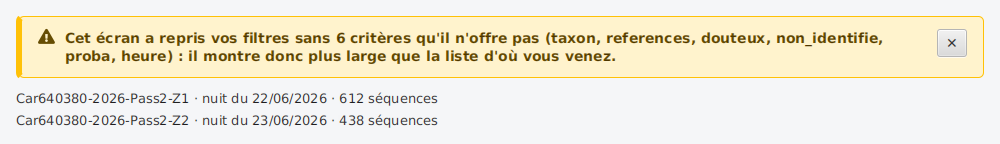
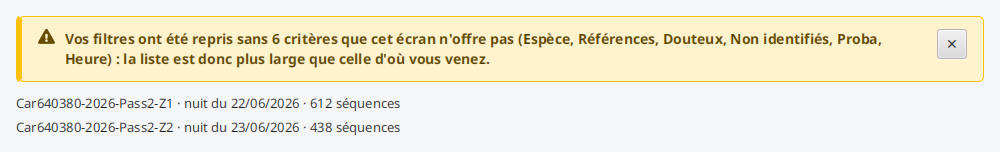
fix(commun): nommer les criteres en francais dans les comptes rendus
Trouve en OUVRANT les captures de la passe 8, pas en lisant un test. Le bandeau
affichait les cles brutes au milieu d une phrase francaise : references sans
accent, non_identifie avec son tiret bas. Ca se lit comme une faute de frappe.

L assertion qui existait, contains(proba), passait sans rien voir : proba est
lisible par hasard.

LibellesCriteres est separe de ClesCriteres a dessein. Le second est un contrat,
les cles partagees et leur concept ; le premier une affaire de presentation, qui
doit couvrir toutes les cles, y compris celles propres a un ecran.

Second defaut : qu il n offre pas n avait d antecedent que dans un des deux
messages. Et corriger cela en a cree un troisieme, vu en regenerant la capture :
cet ecran apparaissait deux fois dans la meme phrase. L ouverture est reformulee.

Deux tests figeaient la formulation defectueuse ; ils assertent desormais le
libelle et refusent la cle brute.

Refs #3092

diff --git a/src/test/java/fr/univ_amu/iut/commun/viewmodel/RetourOperationTest.java b/src/test/java/fr/univ_amu/iut/commun/viewmodel/RetourOperationTest.java
@@ -133,11 +133,11 @@ class RetourOperationTest {
     @DisplayName("#3093 : un critère absent du catalogue se dit, au singulier comme au pluriel")
     void critere_inconnu_se_dit() {
         assertThat(RetourOperation.vueAmputee("V", criteresInconnus("proba")).texte())
-                .contains("le critère « proba », qu'il n'offre pas");
+                .contains("le critère « Proba », que cet écran n'offre pas");
 
         assertThat(RetourOperation.vueAmputee("V", criteresInconnus("proba", "heure"))
                         .texte())
-                .contains("2 critères qu'il n'offre pas (proba, heure)");
+                .contains("2 critères que cet écran n'offre pas (Proba, Heure)");
     }
 
     @Test
@@ -150,7 +150,7 @@ class RetourOperationTest {
 
         assertThat(retour.texte())
                 .contains("« 640380 · Z1 », qui n'existe plus")
-                .contains("2 critères qu'il n'offre pas (proba, heure)");
+                .contains("2 critères que cet écran n'offre pas (Proba, Heure)");
     }
 
     @Test
@@ -159,12 +159,44 @@ class RetourOperationTest {
         // Ni l'un ni l'autre n'est une vue nommée : les faire parler de « la vue » demanderait un nom
         // qu'ils n'ont pas.
         assertThat(RetourOperation.filtresNonRepris(criteresInconnus("proba")).texte())
-                .contains("plus large que la liste d'où vous venez")
+                .contains("plus large que celle d'où vous venez")
                 .doesNotContain("La vue");
 
         assertThat(RetourOperation.filtresDeSessionAmputes(valeursPerdues("Z1")).texte())
                 .contains("plus large que la dernière fois")
                 .doesNotContain("La vue");
+    }
+
+    @Test
+    @DisplayName("Revue visuelle : un critère se nomme en français, pas par sa clé technique")
+    void un_critere_absent_se_nomme_en_francais() {
+        // Trouvé en OUVRANT la capture, pas en lisant un test : le bandeau affichait « sans 6 critères
+        // qu'il n'offre pas (taxon, references, douteux, non_identifie, proba, heure) ». Le tiret bas et
+        // les accents manquants se lisent comme une faute de frappe au milieu d'une phrase française.
+        //
+        // L'assertion qui existait - `contains("proba")` - passait, parce que « proba » est lisible par
+        // hasard. C'est « non_identifie » qui trahit la fuite technique.
+        RetourOperation retour = RetourOperation.vueAmputee("V", criteresInconnus("non_identifie", "references"));
+
+        assertThat(retour.texte())
+                .contains("Non identifiés", "Références")
+                .doesNotContain("non_identifie", "references");
+    }
+
+    @Test
+    @DisplayName("Revue visuelle : « qu'il n'offre pas » n'a pas d'antécédent quand le sujet est la vue")
+    void la_phrase_de_vue_amputee_n_a_pas_de_pronom_orphelin() {
+        // « La vue « X » a été rejouée sans …, ni 2 critères QU'IL n'offre pas » : le sujet est « La
+        // vue », donc « il » ne renvoie à rien. Le fragment avait été écrit pour l'autre message
+        // (« Cet écran … qu'il n'offre pas »), où le pronom a bien un antécédent.
+        assertThat(RetourOperation.vueAmputee("V", criteresInconnus("proba")).texte())
+                .as("le fragment doit nommer ce qui n'offre pas le critère, sans pronom ambigu")
+                .contains("que cet écran n'offre pas")
+                .doesNotContain("qu'il n'offre pas");
+
+        assertThat(RetourOperation.filtresNonRepris(criteresInconnus("proba")).texte())
+                .as("et il reste juste dans le message où le sujet EST l'écran")
+                .contains("que cet écran n'offre pas");
     }
 
     private static ResteDeRestauration valeursPerdues(String... valeurs) {

diff --git a/src/main/java/fr/univ_amu/iut/commun/viewmodel/RetourOperation.java b/src/main/java/fr/univ_amu/iut/commun/viewmodel/RetourOperation.java
@@ -1,6 +1,7 @@
 package fr.univ_amu.iut.commun.viewmodel;
 
 import fr.univ_amu.iut.commun.model.Severite;
+import fr.univ_amu.iut.commun.view.LibellesCriteres;
 import java.util.ArrayList;
 import java.util.List;
 
@@ -100,9 +101,12 @@ public record RetourOperation(String texte, Severite severite) {
     /// **d'où** vient l'écart. Le cas est ordinaire et non exceptionnel : Sons & validation offre dix
     /// critères, l'analyse cinq, donc resserrer sur la probabilité puis basculer sur la carte élargit
     /// forcément le résultat.
+    /// ⚠ L'ouverture ne dit **pas** « Cet écran a repris vos filtres » : le fragment des critères
+    /// nomme déjà l'écran, et la phrase le répétait deux fois. Vu en régénérant la capture, pas en
+    /// relisant le code.
     public static RetourOperation filtresNonRepris(ResteDeRestauration reste) {
-        return avertissement("Cet écran a repris vos filtres sans " + laisseDeCote(reste)
-                + " : il montre donc plus large que la liste d'où vous venez.");
+        return avertissement("Vos filtres ont été repris sans " + laisseDeCote(reste)
+                + " : la liste est donc plus large que celle d'où vous venez.");
     }
 
     /// Le **choix d'une puce remplacé** parce qu'il a disparu du jeu courant (#3095).
@@ -149,10 +153,21 @@ public record RetourOperation(String texte, Severite severite) {
 
     /// Les critères que cet écran n'offre pas, **accordés**. Nommés par leur **clé** : l'écran ne connaît
     /// pas ces critères, donc n'a pas leur intitulé (cf. [ResteDeRestauration]).
+    /// Les critères que cet écran n'offre pas, **nommés comme leur puce les nomme**.
+    ///
+    /// Deux corrections issues de la revue visuelle du chantier #3092, trouvées en ouvrant la capture :
+    ///
+    /// - les clés sortaient **telles quelles** (« references », « non_identifie »), tiret bas et
+    ///   accents manquants compris, ce qui se lit comme une faute de frappe au milieu d'une phrase
+    ///   française. Elles passent par [LibellesCriteres] ;
+    /// - « qu'**il** n'offre pas » n'avait d'antécédent que dans un des deux messages. Dans
+    ///   [#vueAmputee], le sujet est « La vue », et le pronom ne renvoyait à rien. La formule nomme
+    ///   donc l'écran, ce qui reste juste dans les deux.
     private static String criteresAbsents(List<String> criteres) {
-        return criteres.size() == 1
-                ? "le critère « " + criteres.get(0) + " », qu'il n'offre pas"
-                : criteres.size() + " critères qu'il n'offre pas (" + String.join(", ", criteres) + ")";
+        List<String> nommes = criteres.stream().map(LibellesCriteres::de).toList();
+        return nommes.size() == 1
+                ? "le critère « " + nommes.get(0) + " », que cet écran n'offre pas"
+                : nommes.size() + " critères que cet écran n'offre pas (" + String.join(", ", nommes) + ")";
     }
 
     public static RetourOperation erreur(Throwable refus) {

diff --git a/src/main/java/fr/univ_amu/iut/commun/view/LibellesCriteres.java b/src/main/java/fr/univ_amu/iut/commun/view/LibellesCriteres.java
@@ -1,0 +1,59 @@
+package fr.univ_amu.iut.commun.view;
+
+import java.util.Map;
+
+/// Comment un critère se **nomme à l'écran**, à partir de sa clé.
+///
+/// ## Pourquoi cette classe existe
+///
+/// Trouvé en **ouvrant une capture** pendant la revue visuelle du chantier #3092, pas en lisant un
+/// test. Le bandeau d'un écran qui n'a pas su reprendre des filtres affichait :
+///
+/// > sans 6 critères qu'il n'offre pas (taxon, **references**, douteux, **non_identifie**, proba,
+/// > heure)
+///
+/// Les clés sortaient telles quelles au milieu d'une phrase française : tiret bas, accents manquants.
+/// Ça se lit comme une faute de frappe ou une fuite technique. L'assertion qui existait,
+/// `contains("proba")`, passait sans rien voir - « proba » est lisible **par hasard**.
+///
+/// ## Pourquoi ce n'est pas dans `ClesCriteres`
+///
+/// [ClesCriteres] est un **contrat** : les clés partagées entre écrans, et le concept de chacune. Une
+/// clé propre à un seul écran n'y a pas sa place, son unicité ne posant aucune question.
+///
+/// Ici c'est une affaire de **présentation**, et elle doit couvrir **toutes** les clés, partagées ou
+/// non : l'écran qui rend compte d'un critère qu'il n'offre pas nomme précisément celles qu'il ne
+/// connaît pas. Les deux préoccupations sont distinctes, donc séparées.
+///
+/// Une clé sans libellé enregistré se rend **telle quelle** : c'est moins bon, mais lisible, et cela
+/// vaut mieux qu'une exception dans un message d'avertissement.
+public final class LibellesCriteres {
+
+    /// Le libellé de chaque critère de l'application, tel que sa puce l'affiche.
+    private static final Map<String, String> LIBELLES = Map.ofEntries(
+            Map.entry(ClesCriteres.STATUT_OBSERVATION, "Statut"),
+            Map.entry(ClesCriteres.STATUT_WORKFLOW, "Statut"),
+            Map.entry(ClesCriteres.GROUPE, "Taxon parent"),
+            Map.entry(ClesCriteres.LIEU, "Lieu"),
+            Map.entry(ClesCriteres.TAXON, "Espèce"),
+            Map.entry(ClesCriteres.A_ENJEU, "Espèces à enjeu"),
+            Map.entry("references", "Références"),
+            Map.entry("douteux", "Douteux"),
+            Map.entry("non_identifie", "Non identifiés"),
+            Map.entry("proba", "Proba"),
+            Map.entry("heure", "Heure"),
+            Map.entry("carre", "Carré"),
+            Map.entry("campagne", "Campagne"),
+            Map.entry("annee", "Année"),
+            Map.entry("verdict", "Verdict"),
+            Map.entry("analyse", "Analyse"),
+            Map.entry("nuit", "Nuit"),
+            Map.entry("natureNuit", "Nature de la nuit"));
+
+    private LibellesCriteres() {}
+
+    /// Le libellé de `cle`, ou la clé elle-même si elle n'est pas enregistrée.
+    public static String de(String cle) {
+        return LIBELLES.getOrDefault(cle, cle);
+    }
+}

diff --git a/src/test/java/fr/univ_amu/iut/analyse/view/AnalyseViewTest.java b/src/test/java/fr/univ_amu/iut/analyse/view/AnalyseViewTest.java
@@ -717,7 +717,11 @@ class AnalyseViewTest {
         // autre chemin.
         assertThat(robot.lookup("#lblRetour").queryAs(Label.class).getText())
                 .as("le critère non repris doit être annoncé, pas jeté en silence")
-                .contains("proba");
+                .contains("Proba")
+                .as("et nommé comme sa puce le nomme : la clé brute se lisait comme une fuite technique"
+                        + " au milieu d'une phrase française (revue visuelle du chantier #3092)")
+                .doesNotContain("proba,")
+                .doesNotContain("non_identifie");
     }
 
     @Test
